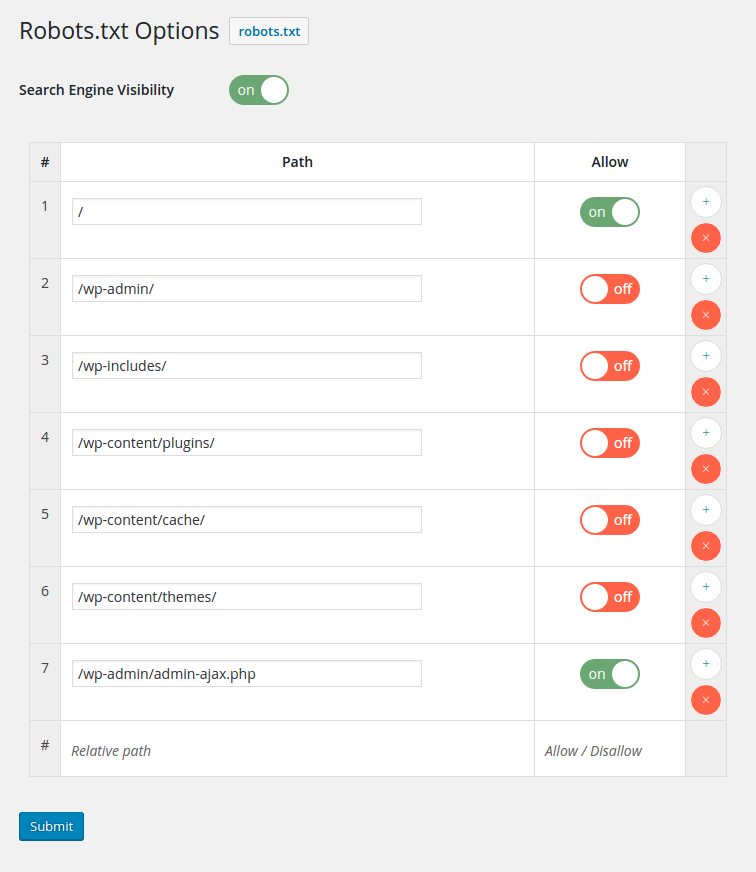
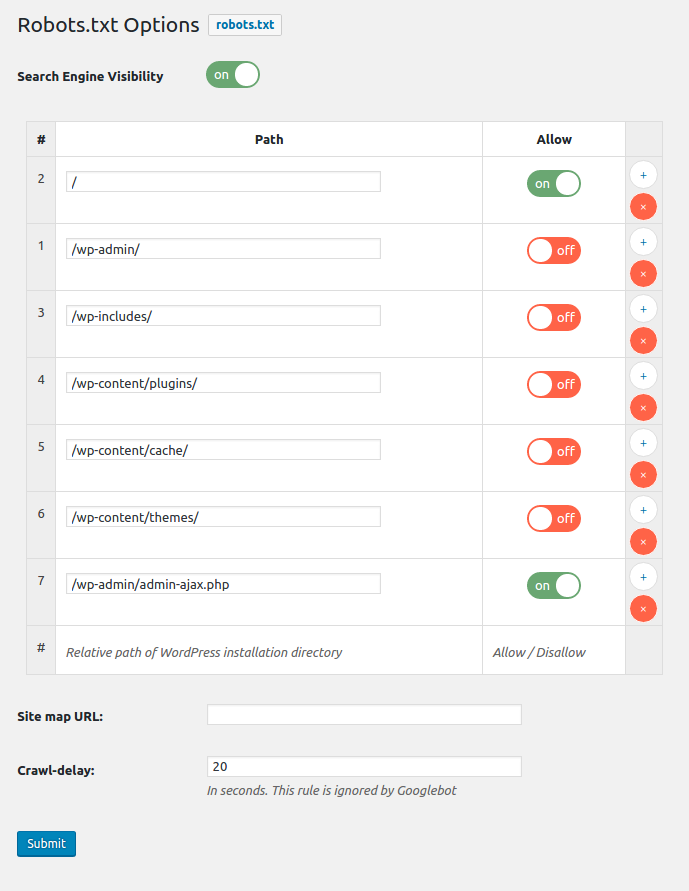
v.1.5 - add Crawl-delay rule

diff --git a/robotstxt-rewrite-admin.php b/robotstxt-rewrite-admin.php
@@ -80,6 +80,7 @@ class RobotsTxtRewrite_Admin
                 );
             }
             $to_save['site_map'] = (isset($_POST['robots_options']['site_map'])) ? sanitize_text_field($_POST['robots_options']['site_map']) : '';
+            $to_save['crawl_delay'] = (isset($_POST['robots_options']['crawl_delay'])) ? sanitize_text_field($_POST['robots_options']['crawl_delay']) : '';
 
             update_option('robots_options', $to_save);
         }
@@ -173,6 +174,16 @@ class RobotsTxtRewrite_Admin
 
                             )); ?></td>
                     </tr>
+                    <tr class="">
+                        <th scope="row"><label><?php _e('Crawl-delay:', 'robotstxt-rewrite'); ?></label></th>
+                        <td><?php AtfHtmlHelper::text(array(
+                                'id' => 'crawl_delay',
+                                'name' => 'robots_options[crawl_delay]',
+                                'value' => $options['crawl_delay'],
+                                'desc' => __('In seconds. This rule is ignored by Googlebot', 'robotstxt-rewrite')
+
+                            )); ?></td>
+                    </tr>
                 </table>
 
                 <p class="submit"><input type="submit" name="submit" id="submit" class="button button-primary"
@@ -214,6 +225,7 @@ class RobotsTxtRewrite_Admin
                 )),
             'bots' => '',
             'site_map' => '',
+            'crawl_delay' => '',
             );
 
 

diff --git a/robotstxt-rewrite.php b/robotstxt-rewrite.php
@@ -8,8 +8,8 @@ Plugin Name: Robots.txt rewrite
 Plugin URI: http://wordpress.org/plugins/robotstxt-rewrite/
 Description: Manage your robots.txt form admin side. Plugin provide to help search engines to indexing site correctly. A simple plugin to manage your robots.txt. Plugin donn't create the file or edit it. This plugin edit WordPress output of robots.txt content. And get you a easy and usable interface to manage it.
 Author: Eugen Bobrowski
-Version: 1.4
-Author URI: http://atf.li/
+Version: 1.5
+Author URI: http://bobrowski.ru/
 Text Domain: robotstxt-rewrite
 */
 
@@ -67,9 +67,10 @@ class RobotsTxtRewrite
             $output = '';
 
             $site_map = (!empty($options['site_map'])) ? "\nSitemap: " . $options['site_map'] : '';
+            $crawl_delay = (!empty($options['crawl_delay'])) ? "\nCrawl-Delay: " . $options['crawl_delay'] : '';
             $host = "\nHost: " . get_site_url() . "\n";
 
-            $output .= implode($host , $user_agents) . $site_map . $host . "\n\n\n\n" . apply_filters('robots_txt_rewrite_footer', "# This robots.txt file was created by Robots.txt Rewrite plugin: https://wordpress.org/plugins/robotstxt-rewrite/\n");
+            $output .= implode("\n\n" , $user_agents) . $site_map . $crawl_delay . $host . apply_filters('robots_txt_rewrite_footer', "\n\n\n\n# This robots.txt file was created by Robots.txt Rewrite plugin: https://wordpress.org/plugins/robotstxt-rewrite/\n");
 
 
         }
